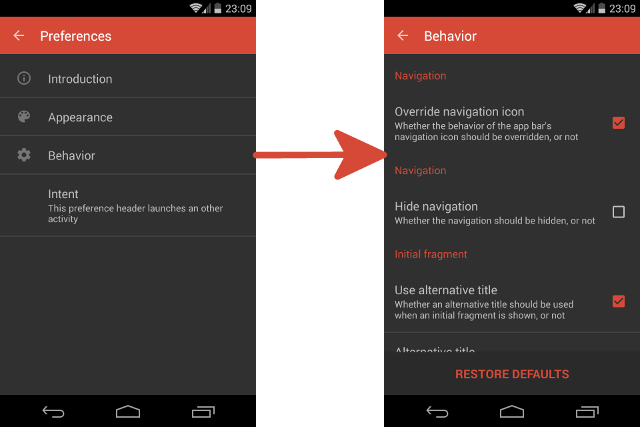
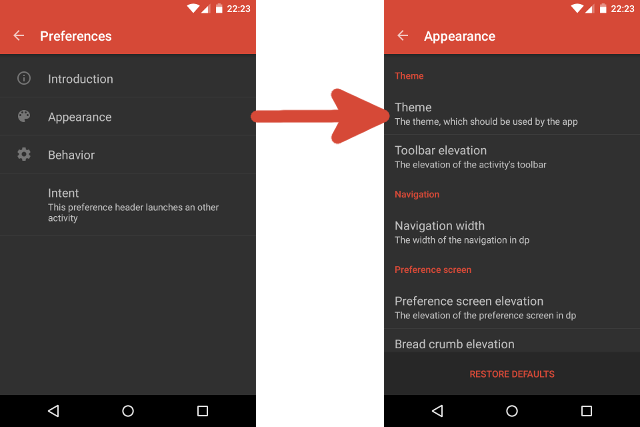
Updated documentation.

diff --git a/doc/content.html b/doc/content.html
@@ -65,7 +65,7 @@
 
                 <h4><a name="implementation-details">1 Implementation details</a></h4>
 
-                <p>The activity <a href="javadoc/de/mrapp/android/preference/activity/PreferenceActivity.html" target="_blank" class="code">PreferenceActivity</a>, which is provided by this library is an abstract class, which is extended from the Android SDK's class <a href="http://developer.android.com/reference/android/app/Activity.html" target="_blank" class="code">Activity</a>. In order to use the library, the class <a href="javadoc/de/mrapp/android/preference/activity/PreferenceActivity.html" target="_blank" class="code">PreferenceActivity</a> simply has to be extended and the preference headers, which specify categories of preferences, must be added to the activity. Although it is possible to add the preference headers at runtime, the usual requirement is to initialize them once the activity is created. Therefore the class <a href="javadoc/de/mrapp/android/preference/activity/PreferenceActivity.html" target="_blank" class="code">PreferenceActivity</a> offers the protected method <tt>onCreatePreferenceHeaders():void</tt>, which amends the activity's lifecycle and is called after the <tt>onCreate</tt>-, but before the <tt>onStart</tt>-method in order to add the preference headers which should be shown as soon as the activity becomes visible. Multiple ways to override this method in order to add preference headers will be discussed in the following section "<a href="content.html#adding-and-removing-preference-headers">Adding and removing preference headers</a>". The preference headers itself are represented by instances of the class <a href="javadoc/de/mrapp/android/preference/activity/PreferenceHeader.html" target="_blank" class="code">PreferenceHeader</a>. Such a class instance must at least specify a title, which is shown in the navigation to represent the preference header. Furthermore, a summary, which describes the preference header more detailed, an alternative title, which is shown when the preference header is currently selected, and an icon can be specified using the classes' setter methods. The preferences, which should be shown, when a preference header is selected by the user, must be contained by a fragment, which can be implemented by extending the Android SDK's class <a href="http://developer.android.com/reference/android/preference/PreferenceFragment.html" target="_blank" class="code">PreferenceFragment</a>. Since version 1.1.0 the library does also provide the class <a href="javadoc/de/mrapp/android/preference/activity/PreferenceFragment.html" target="_blank" class="code">PreferenceFragment</a>, which is extended from the Android SDK's class to add the possibility to show a button, which allows to restore the default values of the fragment's preferences. Alternatively, every fragment, which is extended from the SDK's class <a href="http://developer.android.com/reference/android/app/Fragment.html" target="_blank" class="code">Fragment</a> and therefore must not necessarely contain preferences, can be shown by using the library. The fragment, which should be shown, when a specific preference header is selected, can be specified by passing its full qualified name to the appropriate setter method of the <a href="javadoc/de/mrapp/android/preference/activity/PreferenceHeader.html" target="_blank" class="code">PreferenceHeader</a>-instance. Besides, there is an other setter method, which allows to specify an intent, which is launched to start an activity once the preference header becomes selected. A fragment and an intent can be specified at the same time, but both of them can also be used on their own. The class <a href="javadoc/de/mrapp/android/preference/activity/PreferenceActivity.html" target="_blank" class="code">PreferenceActivity</a> does override the methods <tt>onSaveInstanceState(Bundle):void</tt> and <tt>onRestoreInstanceState(Bundle):void</tt>, which are called by the Android SDK during the activity's lifecycle in order to restore the activity's current state, when it is temporary destroyed. For this reason, the currently selected preference header will remain selected, even if the orientation of the device changes or if the activity is temporary brought to the background.</p>
+                <p>The activity <a href="javadoc/de/mrapp/android/preference/activity/PreferenceActivity.html" target="_blank" class="code">PreferenceActivity</a>, which is provided by this library is an abstract class, which is extended from the Android SDK's class <a href="http://developer.android.com/reference/android/app/Activity.html" target="_blank" class="code">Activity</a>. In order to use the library, the class <a href="javadoc/de/mrapp/android/preference/activity/PreferenceActivity.html" target="_blank" class="code">PreferenceActivity</a> simply has to be extended and the preference headers, which specify categories of preferences, must be added to the activity. Although it is possible to add the preference headers at runtime, the usual requirement is to initialize them once the activity is created. Therefore the class <a href="javadoc/de/mrapp/android/preference/activity/PreferenceActivity.html" target="_blank" class="code">PreferenceActivity</a> offers the protected method <tt>onCreatePreferenceHeaders():void</tt>, which amends the activity's lifecycle and is called after the <tt>onCreate</tt>-, but before the <tt>onStart</tt>-method in order to add the preference headers which should be shown as soon as the activity becomes visible. Multiple ways to override this method in order to add preference headers will be discussed in the following section "<a href="content.html#adding-and-removing-preference-headers">Adding and removing preference headers</a>". The preference headers themselves are represented by instances of the class <a href="javadoc/de/mrapp/android/preference/activity/PreferenceHeader.html" target="_blank" class="code">PreferenceHeader</a>. Such a class instance must at least specify a title, which is shown in the navigation to represent the preference header. Furthermore, a summary, which describes the preference header more detailed, an alternative title, which is shown when the preference header is currently selected, and an icon can be specified using the classes' setter methods. The preferences, which should be shown, when a preference header is selected by the user, must be contained by a fragment, which can be implemented by extending the Android SDK's class <a href="http://developer.android.com/reference/android/preference/PreferenceFragment.html" target="_blank" class="code">PreferenceFragment</a>. Since version 1.1.0 the library does also provide the class <a href="javadoc/de/mrapp/android/preference/activity/PreferenceFragment.html" target="_blank" class="code">PreferenceFragment</a>, which is extended from the Android SDK's class to add the possibility to show a button, which allows to restore the default values of the fragment's preferences. Alternatively, every fragment, which is extended from the SDK's class <a href="http://developer.android.com/reference/android/app/Fragment.html" target="_blank" class="code">Fragment</a> and therefore must not necessarely contain preferences, can be shown by using the library. The fragment, which should be shown, when a specific preference header is selected, can be specified by passing its full qualified name to the appropriate setter method of the <a href="javadoc/de/mrapp/android/preference/activity/PreferenceHeader.html" target="_blank" class="code">PreferenceHeader</a>-instance. Besides, there is an other setter method, which allows to specify an intent, which is launched to start an activity once the preference header becomes selected. A fragment and an intent can be specified at the same time, but both of them can also be used on their own. The class <a href="javadoc/de/mrapp/android/preference/activity/PreferenceActivity.html" target="_blank" class="code">PreferenceActivity</a> does override the methods <tt>onSaveInstanceState(Bundle):void</tt> and <tt>onRestoreInstanceState(Bundle):void</tt>, which are called by the Android SDK during the activity's lifecycle in order to restore the activity's current state, when it is temporary destroyed. For this reason, the currently selected preference header will remain selected, even if the orientation of the device changes or if the activity is temporary brought to the background.</p>
 
                 <p>The activity <a href="javadoc/de/mrapp/android/preference/activity/PreferenceActivity.html" target="_blank" class="code">PreferenceActivity</a> has been designed in order to allow optical manipulations as easy as possible. Therefore the class offers various methods to access the activity's child views and to directly manipulate their most important properties (e.g. the width of the navigation on tablets). These methods, as well as the child views, which are used to realize the varying appearance on tablets and smartphones, will be discussed in the section "<a href="content.html#manipulating-the-appearance">Manipulating the activity's appearance</a>". Further manipulations, which take influence on the activity's behavior, will be discussed in the section "<a href="content.html#changing-the-behavior">Changing the activity's behavior</a>". To retrieve, whether the activity is run on a tablet and therefore the navigation and the currently selected fragment are shown split-screen, the method <tt>isSplitScreen():boolean</tt> can be used.</p>
 
@@ -205,8 +205,16 @@
                         <td>Returns the parent view of the fragment, which contains the fragment of the currently selected preference header. On smartphones this method always returns <tt>null</tt>.</td>
                     </tr>
                     <tr>
-                        <td><tt>getPreferenceScreenContainer():ViewGroup</tt></td>
+                        <td><tt>getPreferenceScreenContainer():CardView</tt></td>
                         <td>Returns the view group, which contains the view, which can be referenced by the <tt>getPreferenceScreenParentView</tt>-method. This view is used to apply a horizontal margin. On smartphones this method always returns <tt>null</tt>.</td>
+                    </tr>
+                    <tr>
+                        <td><tt>getNavigationToolbar():Toolbar</tt></td>
+                        <td>Returns the toolbar, which is used to show the activity's title. On smartphones this method always returns <tt>null</tt> and the method <tt>getSupportActionBar():ActionBar</tt> can be used instead.</td>
+                    </tr>
+                    <tr>
+                        <td><tt>getBreadCrumbToolbar():Toolbar</tt></td>
+                        <td>Returns the toolbar, which is used to show the title of the currently selected preference header. On smartphones this method always returns <tt>null</tt>.</td>
                     </tr>
                 </table>
 
@@ -242,14 +250,20 @@
                     <tr>
                         <td><tt>getToolbarElevation():int<br/>setToolbarElevation(int):void</tt></td>
                         <td>Returns or sets the elevation of the activity's toolbar.</td>
-                        <td><center><tt>3dp</tt></center></td>
-                        <td>The value must be at least 0 and at maximum 5</td>
+                        <td><center><tt>4dp</tt></center></td>
+                        <td>The value must be at least 0 and at maximum 16</td>
                     </tr>
                     <tr>
-                        <td><tt>getNavigationElevation():int<br/>setNavigationElevation(int):boolean</tt></td>
-                        <td>Returns or sets the elevation of the navigation in dp. The methods are only available on tablets.</td>
-                        <td><center><tt>3dp</tt> or <tt>-1</tt> on smartphones</center></td>
-                        <td>The value must be at least 0 and at maximum 5</td>
+                        <td><tt>getPreferenceScreenElevation():int<br/>setPreferenceScreenElevation(int):boolean</tt></td>
+                        <td>Returns or sets the elevation of the parent view of the fragment, which contains the fragment of the currently selected preference header. The methods are only available on tablets.</td>
+                        <td><center><tt>14dp</tt> or <tt>-1</tt> on smartphones</center></td>
+                        <td>The value must be at least 0 and at maximum 16</td>
+                    </tr>
+                    <tr>
+                        <td><tt>getBreadCrumbElevation():int<br/>setBreadCrumbElevation(int):boolean</tt></td>
+                        <td>Returns or sets the elevation of the view, which is used to show the title of the currently selected preference header. The methods are only available on tablets.</td>
+                        <td><center><tt>2dp</tt> or <tt>-1</tt> on smartphones</center></td>
+                        <td>The value must be at least 0 and at maximum 16</td>
                     </tr>
                 </table>
 
@@ -257,7 +271,7 @@
 
                 <h5><a name="taking-influence-on-the-adapter">3.3 Taking influence on the PreferenceHeaderAdapter</a></h5>
 
-                <p>The methods, which have been discussed in the previous two sections of this documentation do only allow to modify the appearance of the navigation and preference screen, but not of the preference headers itself. The adapter, which is used to visualize these preference headers can be retrieved by using the method <tt>getListAdapter():PreferenceHeaderAdapter</tt>, which returns an instance of the class <a href="javadoc/de/mrapp/android/preference/activity/adapter/PreferenceHeaderAdapter.html" target="_blank" class="code">PreferenceHeaderAdapter</a>. This class offers methods, which allow take influence on how the preference headers are visualized.</p>
+                <p>The methods, which have been discussed in the previous two sections of this documentation do only allow to modify the appearance of the navigation and preference screen, but not of the preference headers themselves. The adapter, which is used to visualize these preference headers can be retrieved by using the method <tt>getListAdapter():PreferenceHeaderAdapter</tt>, which returns an instance of the class <a href="javadoc/de/mrapp/android/preference/activity/adapter/PreferenceHeaderAdapter.html" target="_blank" class="code">PreferenceHeaderAdapter</a>. This class offers methods, which allow take influence on how the preference headers are visualized.</p>
 
                 <p>The first possibility to change the appearance of the preference header is to change the selector, which is used to highlight the currently selected navigation item. The selector, which is used by default, is defined within the drawable resource <tt>R.drawable.selector_light</tt>. To use a custom drawable instead, the method <tt>setSelectorId(int):void</tt> can be used to pass the drawable's resource ID to the adapter. To retrieve the resource ID of the selector, which is currently used, the adapter offers the method <tt>getSelectorId():int</tt>. As an alternative to the default selector, which is meant to be used together with light themes, the drawable resource <tt>R.drawable.selector_light</tt> provides a selector for dark themes. In the last section of this documentation, the possibility to specify the selector and further attributes from within a theme, will be discussed.</p>
 
@@ -416,9 +430,9 @@
                     </tr>
                     <tr>
                         <td><tt>getButtonBarElevation():int<br/>setButtonBarElevation(int):boolean</tt></td>
-                        <td>Returns or sets the elevation of the button bar, which contains the buttons, which are shown when the activity is used as a wizard, in dp.</td>
-                        <td><center><tt>3dp</tt> or <tt>-1</tt> when the acitivty is not used as a wizard</center></td>
-                        <td>The value must be at least 0 and at maximum 5</td>
+                        <td>Returns or sets the elevation of the button bar, which is used when the activity is used as a wizard.</td>
+                        <td><center><tt>6dp</tt></center></td>
+                        <td>The value must be at least 0 and at maximum 16</td>
                     </tr>
                 </table>
 
@@ -487,9 +501,9 @@
                     </tr>
                     <tr>
                         <td><tt>getButtonBarElevation():int<br/>setButtonBarElevation(int):boolean</tt></td>
-                        <td>Returns or sets the elevation of the button bar, which contains the button, which allows to restore the default values, in dp.</td>
-                        <td><center><tt>3dp</tt> or <tt>-1</tt> when the button, which allows to restore the default values, is not shown</center></td>
-                        <td>The value must be at least 0 and at maximum 5</td>
+                        <td>Returns or sets the elevation of the button bar, which contains the button, which allows to restore the default values.</td>
+                        <td><center><tt>6dp</tt> or <tt>-1</tt> when the button, which allows to restore the default values, is not shown.</center></td>
+                        <td>The value must be at least 0 and at maximum 16</td>
                     </tr>
                 </table>
 
@@ -520,12 +534,22 @@
                     <tr>
                         <td><tt>toolbarTheme</tt></td>
                         <td><center><tt>reference</tt></td>
-                        <td>The theme, which should be applied on the toolbar itself</td>
+                        <td>The theme, which should be applied on the toolbar, which is used to show the activity's title.</td>
                     </tr>
                     <tr>
                         <td><tt>toolbarPopupTheme</tt></td>
                         <td><center><tt>reference</tt></center></td>
-                        <td>The theme, which should be applied on the toolbar's popup menus</td>
+                        <td>The theme, which should be applied on the popup menu of the toolbar, which is used to show the activity's title.</td>
+                    </tr>
+                    <tr>
+                        <td><tt>inverseToolbarTheme</tt></td>
+                        <td><center><tt>reference</tt></center></td>
+                        <td>The theme, which should be applied on the toolbar, which is used to show the title of the currently selected preference header on tablets. This attribute is not considered on smartphones.</td>
+                    </tr>
+                    <tr>
+                        <td><tt>inverseToolbarPopupTheme</tt></td>
+                        <td><center><tt>reference</tt></center></td>
+                        <td>The theme, which should be applied on the popup menu of the toolbar, which is used to show the title of the currently selected preference header on tablets. This attribute is not considered on smartphones.</td>
                     </tr>
                 </table>
 
@@ -573,11 +597,6 @@
                         <td>The elevation of the activity's toolbar in dp</td>
                     </tr>
                     <tr>
-                        <td><tt>navigationElevation</tt></td>
-                        <td><center><tt>dimension</tt></center></td>
-                        <td>The elevation of the navigation in dp</td>
-                    </tr>
-                    <tr>
                         <td><tt>wizardButtonBarElevation</tt></td>
                         <td><center><tt>dimension</tt></center></td>
                         <td>The elevation of the view group, which contains the buttons, which are shown when the activity is used as a wizard, in dp</td>
@@ -586,6 +605,16 @@
                         <td><tt>restoreDefaultsButtonBarElevation</tt></td>
                         <td><center><tt>dimension</tt></center></td>
                         <td>The elevation of the view group, which contains the button, which allows to restore a PreferenceFragment's default values, in dp</td>
+                    </tr>
+                    <tr>
+                        <td><tt>preferenceScreenElevation</tt></td>
+                        <td><center><tt>dimension</tt></center></td>
+                        <td>The elevation of the parent view of the fragment, which is used to show the fragment of the currently selected preference header, in dp. This attribute is only considered on tablets.</td>
+                    </tr>
+                    <tr>
+                        <td><tt>breadCrumbElevation</tt></td>
+                        <td><center><tt>dimension</tt></center></td>
+                        <td>The elevation of the view, which is used to show the title of the currently selected preference header, in dp. This attribute is only considered on tablets.</td>
                     </tr>
                     <tr>
                         <td><tt>preferenceHeaderSelector</tt></td>

diff --git a/doc/examples.html b/doc/examples.html
@@ -76,6 +76,8 @@
 <br/>&nbsp;&nbsp;&nbsp;&nbsp;&nbsp;&nbsp;&nbsp;&nbsp;<font color='#3f7f5f'>&lt;item</font> name=<font color='#2a00ff'>"colorAccent"</font><font color='#3f7f5f'>&gt;</font><font color='#000000'>#ffd64937</font><font color='#3f7f5f'>&lt;/item&gt;</font>
 <br/>&nbsp;&nbsp;&nbsp;&nbsp;&nbsp;&nbsp;&nbsp;&nbsp;<font color='#3f7f5f'>&lt;item</font> name=<font color='#2a00ff'>"toolbarTheme"</font><font color='#3f7f5f'>&gt;</font><font color='#000000'>@style/ToolbarTheme</font><font color='#3f7f5f'>&lt;/item&gt;</font>
 <br/>&nbsp;&nbsp;&nbsp;&nbsp;&nbsp;&nbsp;&nbsp;&nbsp;<font color='#3f7f5f'>&lt;item</font> name=<font color='#2a00ff'>"toolbarPopupTheme"</font><font color='#3f7f5f'>&gt;</font><font color='#000000'>@style/DarkToolbarPopupTheme</font><font color='#3f7f5f'>&lt;/item&gt;</font>
+<br/>&nbsp;&nbsp;&nbsp;&nbsp;&nbsp;&nbsp;&nbsp;&nbsp;<font color='#3f7f5f'>&lt;item</font> name=<font color='#2a00ff'>"invertedToolbarTheme"</font><font color='#3f7f5f'>&gt;</font><font color='#000000'>@style/DarkInvertedToolbarTheme</font><font color='#3f7f5f'>&lt;/item&gt;</font>
+<br/>&nbsp;&nbsp;&nbsp;&nbsp;&nbsp;&nbsp;&nbsp;&nbsp;<font color='#3f7f5f'>&lt;item</font> name=<font color='#2a00ff'>"invertedToolbarPopupTheme"</font><font color='#3f7f5f'>&gt;</font><font color='#000000'>@style/LightToolbarPopupView</font><font color='#3f7f5f'>&lt;/item&gt;</font>
 <br/>&nbsp;&nbsp;&nbsp;&nbsp;&nbsp;&nbsp;&nbsp;&nbsp;<font color='#3f7f5f'>&lt;item</font> name=<font color='#2a00ff'>"navigationBackground"</font><font color='#3f7f5f'>&gt;</font><font color='#000000'>@color/navigation_background_dark</font><font color='#3f7f5f'>&lt;/item&gt;</font>
 <br/>&nbsp;&nbsp;&nbsp;&nbsp;&nbsp;&nbsp;&nbsp;&nbsp;<font color='#3f7f5f'>&lt;item</font> name=<font color='#2a00ff'>"preferenceScreenBackground"</font><font color='#3f7f5f'>&gt;</font><font color='#000000'>@color/preference_screen_background_dark</font><font color='#3f7f5f'>&lt;/item&gt;</font>
 <br/>&nbsp;&nbsp;&nbsp;&nbsp;&nbsp;&nbsp;&nbsp;&nbsp;<font color='#3f7f5f'>&lt;item</font> name=<font color='#2a00ff'>"wizardButtonBarBackground"</font><font color='#3f7f5f'>&gt;</font><font color='#000000'>@color/button_bar_background_dark</font><font color='#3f7f5f'>&lt;/item&gt;</font>
@@ -83,11 +85,19 @@
 <br/>&nbsp;&nbsp;&nbsp;&nbsp;&nbsp;&nbsp;&nbsp;&nbsp;<font color='#3f7f5f'>&lt;item</font> name=<font color='#2a00ff'>"preferenceHeaderSelector"</font><font color='#3f7f5f'>&gt;</font><font color='#000000'>@drawable/selector_dark</font><font color='#3f7f5f'>&lt;/item&gt;</font>
 <br/>&nbsp;&nbsp;&nbsp;&nbsp;<font color='#3f7f5f'>&lt;/style/&gt;</font>
 
-<br/><br/>&nbsp;&nbsp;&nbsp;&nbsp;<font color='#3f7f5f'>&lt;style</font> name=<font color='#2a00ff'>"ToolbarTheme"</font> parent=<font color='#2a00ff'>"@style/Theme.AppCompat.NoActionBar"</font>
+<br/><br/>&nbsp;&nbsp;&nbsp;&nbsp;<font color='#3f7f5f'>&lt;style</font> name=<font color='#2a00ff'>"ToolbarTheme"</font> parent=<font color='#2a00ff'>"@style/Theme.AppCompat.Light.NoActionBar"</font>
 <br/>&nbsp;&nbsp;&nbsp;&nbsp;&nbsp;&nbsp;&nbsp;&nbsp;<font color='#3f7f5f'>&lt;item</font> name=<font color='#2a00ff'>"colorPrimary"</font><font color='#3f7f5f'>&gt;</font><font color='#000000'>#ffd64937</font><font color='#3f7f5f'>&lt;/item&gt;</font>
 <br/>&nbsp;&nbsp;&nbsp;&nbsp;&nbsp;&nbsp;&nbsp;&nbsp;<font color='#3f7f5f'>&lt;item</font> name=<font color='#2a00ff'>"android:textColorPrimary"</font><font color='#3f7f5f'>&gt;</font><font color='#000000'>@color/abc_primary_text_material_dark</font><font color='#3f7f5f'>&lt;/item&gt;</font>
 <br/>&nbsp;&nbsp;&nbsp;&nbsp;&nbsp;&nbsp;&nbsp;&nbsp;<font color='#3f7f5f'>&lt;item</font> name=<font color='#2a00ff'>"android:textColorSecondary"</font><font color='#3f7f5f'>&gt;</font><font color='#000000'>@color/abc_secondary_text_material_dark</font><font color='#3f7f5f'>&lt;/item&gt;</font>
 <br/>&nbsp;&nbsp;&nbsp;&nbsp;<font color='#3f7f5f'>&lt;/style/&gt;</font>
+
+<br/><br/>&nbsp;&nbsp;&nbsp;&nbsp;<font color='#3f7f5f'>&lt;style</font> name=<font color='#2a00ff'>"DarkInvertedToolbarTheme"</font> parent=<font color='#2a00ff'>"@style/Theme.AppCompat.NoActionBar"</font>
+<br/>&nbsp;&nbsp;&nbsp;&nbsp;&nbsp;&nbsp;&nbsp;&nbsp;<font color='#3f7f5f'>&lt;item</font> name=<font color='#2a00ff'>"colorPrimary"</font><font color='#3f7f5f'>&gt;</font><font color='#000000'>#ffd64937</font><font color='#3f7f5f'>&lt;/item&gt;</font>
+<br/>&nbsp;&nbsp;&nbsp;&nbsp;&nbsp;&nbsp;&nbsp;&nbsp;<font color='#3f7f5f'>&lt;item</font> name=<font color='#2a00ff'>"android:textColorPrimary"</font><font color='#3f7f5f'>&gt;</font><font color='#000000'>@color/abc_secondary_text_material_dark</font><font color='#3f7f5f'>&lt;/item&gt;</font>
+<br/>&nbsp;&nbsp;&nbsp;&nbsp;&nbsp;&nbsp;&nbsp;&nbsp;<font color='#3f7f5f'>&lt;item</font> name=<font color='#2a00ff'>"android:textColorSecondary"</font><font color='#3f7f5f'>&gt;</font><font color='#000000'>@color/abc_secondary_text_material_dark</font><font color='#3f7f5f'>&lt;/item&gt;</font>
+<br/>&nbsp;&nbsp;&nbsp;&nbsp;<font color='#3f7f5f'>&lt;/style/&gt;</font>
+
+<br/><br/>&nbsp;&nbsp;&nbsp;&nbsp;<font color='#3f7f5f'>&lt;style</font> name=<font color='#2a00ff'>"LightToolbarPopupTheme"</font> parent=<font color='#2a00ff'>"@style/Theme.AppCompat.Light.NoActionBar"</font> <font color='#3f7f5f'>/&gt;</font>
 
 <br/><br/>&nbsp;&nbsp;&nbsp;&nbsp;<font color='#3f7f5f'>&lt;style</font> name=<font color='#2a00ff'>"DarkToolbarPopupTheme"</font> parent=<font color='#2a00ff'>"@style/Theme.AppCompat.NoActionBar"</font> <font color='#3f7f5f'>/&gt;</font>
 
